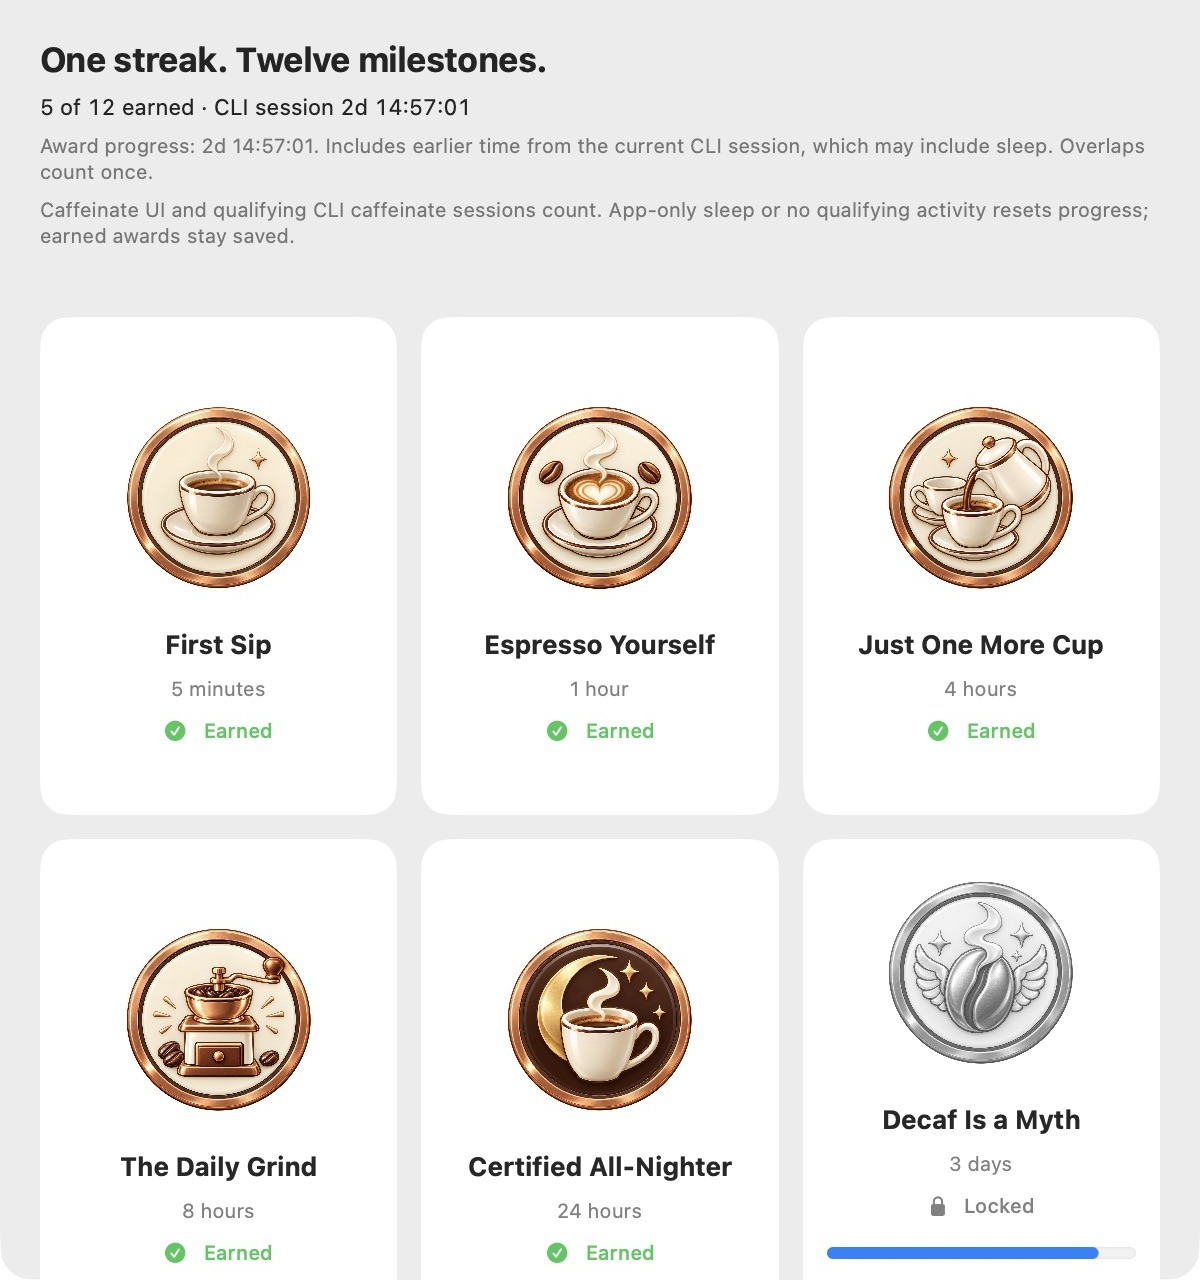
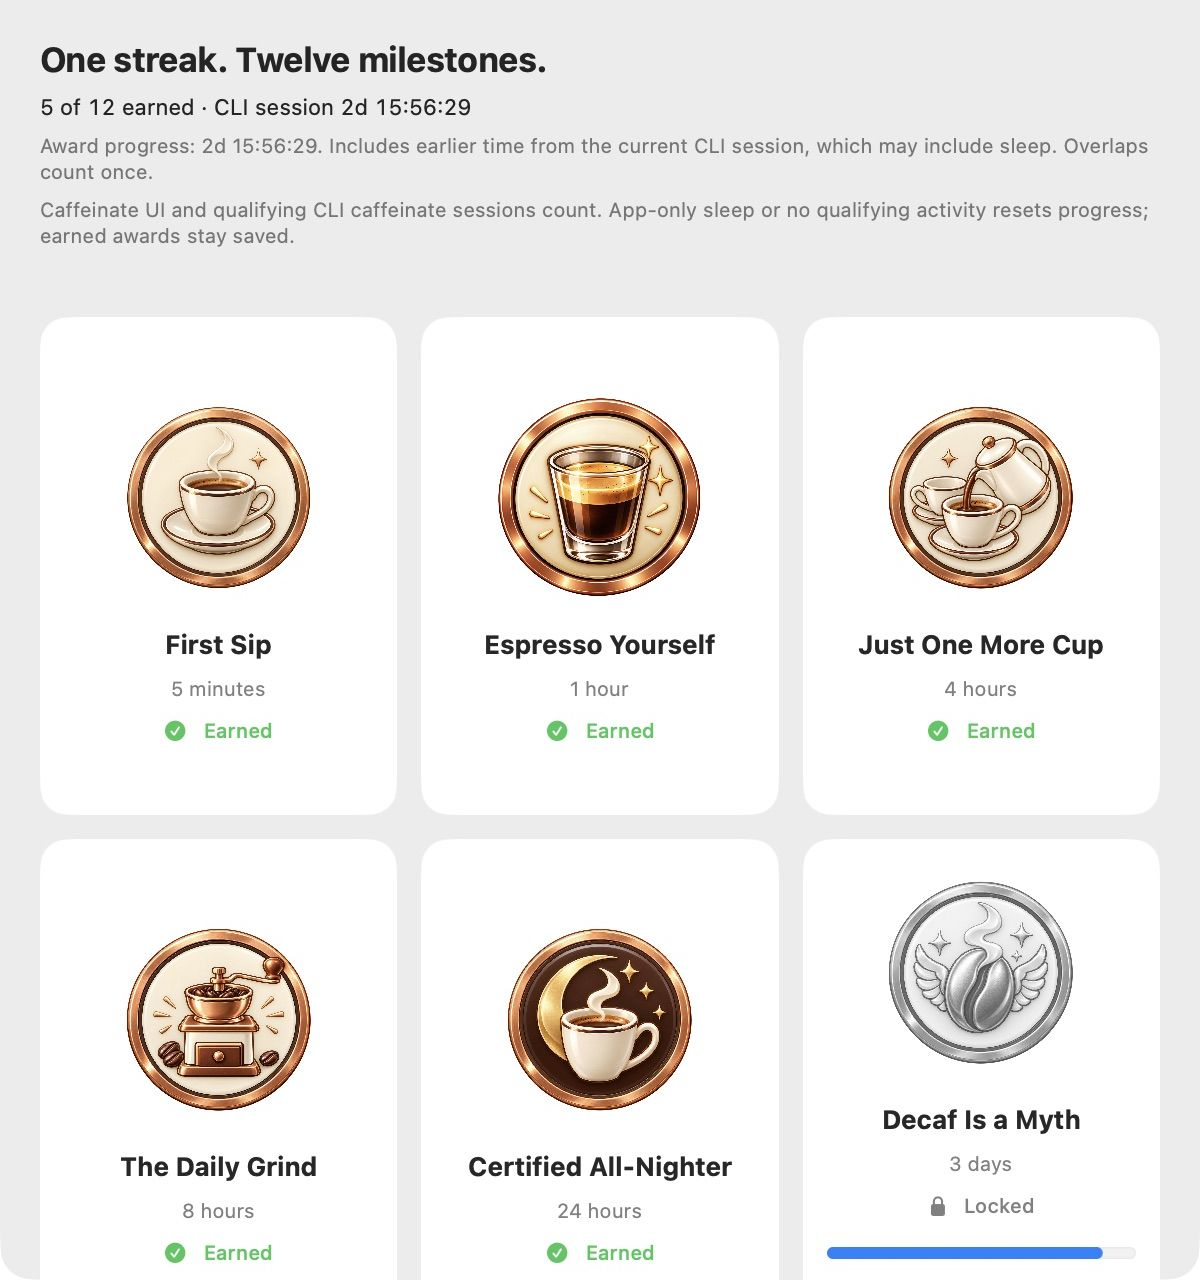
Integrate four approved award designs and refresh installed app previews

Changed region(s): [[0.4008, 0.3125, 0.5858, 0.4688], [0.2158, 0.0625, 0.9558, 0.125]]

diff --git a/distribution/README.md b/distribution/README.md
@@ -5,7 +5,7 @@ Status: local preparation only. No signed distributable release, tap or working 
 ## Decisions and prerequisites
 
 - Proposed maintainer tap name: `harinaralasetty/homebrew-tap`, cask token `caffeinate-ui` (authorized display name: Caffeinate UI). The official `caffeine` and `domzilla-caffeine` tokens already distribute other vendors' apps. A fully qualified tap token avoids pretending this is the official cask. Availability checked against official listings on 10 October 2026; recheck before publication.
-- Current artifact: version 1.4/build 5, arm64-only, release-optimized compilation, ad hoc signature, no TeamIdentifier. It is a local build, not a trusted public release.
+- Current artifact: version 1.5/build 6, arm64-only, release-optimized compilation, ad hoc signature, no TeamIdentifier. It is a local build, not a trusted public release.
 - Naming approved by Hari. The authorized rename uses Caffeinate UI.app and the caffeinate-ui repository; retain the existing bundle identifier and preferences. Initial recommendation: release-optimized Apple Silicon package. Intel/universal support needs a separately built and tested x86_64 slice; do not claim support from package minimum-version declarations. Confirm supported macOS versions on clean systems.
 - Apple Developer membership status is unknown. Trusted distribution needs the owner's Developer ID Application signing identity/private key, hardened runtime with secure timestamp, and an authorized notarytool credential profile or App Store Connect API credential. The owner must provision these; never paste secrets into source, chat, or cask files. No enrollment or credentials have been configured.
 - Choose a license before describing reuse/distribution rights. No license is inferred from public GitHub visibility.

diff --git a/README.md b/README.md
@@ -4,7 +4,7 @@
 
 **Keep your Mac awake. Keep your agents running.**
 
-Built for the agent era: Hari made Caffeinate UI for long-running local coding agents, builds and terminal workflows. It manages macOS idle-sleep assertions and shows active `caffeinate` sessions, with twelve coffee awards along the way. Caffeinate UI uses Swift, AppKit, SwiftUI and IOKit with no third-party package dependencies. Current source version: **1.4 (build 5)**.
+Built for the agent era: Hari made Caffeinate UI for long-running local coding agents, builds and terminal workflows. It manages macOS idle-sleep assertions and shows active `caffeinate` sessions, with twelve coffee awards along the way. Caffeinate UI uses Swift, AppKit, SwiftUI and IOKit with no third-party package dependencies. Current source version: **1.5 (build 6)**.
 
 - Control system and display idle sleep independently.
 - See a session timer for app-owned and qualifying CLI assertions.
@@ -13,7 +13,7 @@ Built for the agent era: Hari made Caffeinate UI for long-running local coding a
 
 ![Actual Caffeinate UI Awards window showing five full-colour earned badges and a grey locked three-day milestone](docs/screenshots/awards.jpg)
 
-Actual installed 1.4 app, captured on 10 October 2026. Five awards came from a qualifying CLI session of roughly 2 days 14 hours. This elapsed time may include system sleep; the screenshot is not an isolated demonstration or proof of continuous awake time. Only app content is shown.
+Actual installed 1.5 app, captured on 10 October 2026. Five awards came from a qualifying CLI session of roughly 2 days 16 hours. This elapsed time may include system sleep; the screenshot is not an isolated demonstration or proof of continuous awake time. Only app content is shown.
 
 ## Requirements
 
